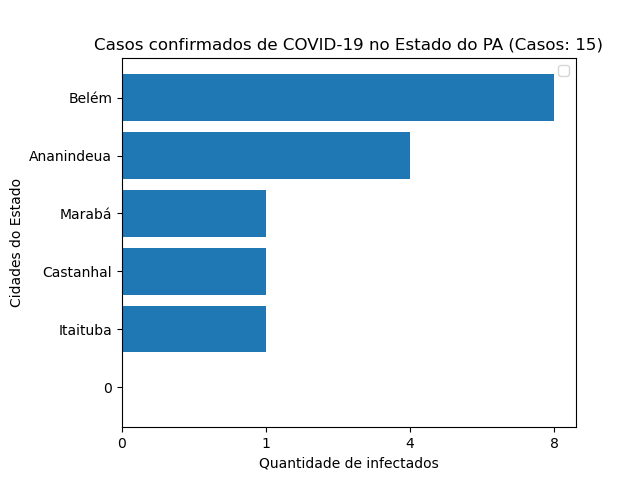
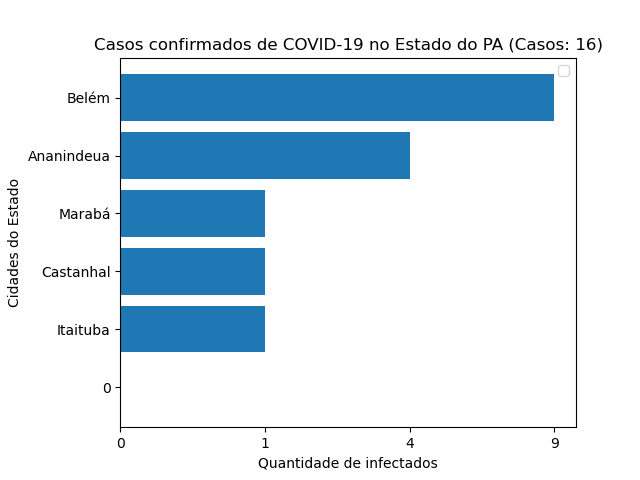
Atualização dos casos

diff --git a/Grafico_de_Barras.py b/Grafico_de_Barras.py
@@ -3,11 +3,11 @@ import matplotlib.pyplot as plt
 
 ##Valores
 cidades = ['0','Itaituba','Castanhal','Marabá','Ananindeua','Belém']
-casos = ['0','1','1','1','4','8']
+casos = ['0','1','1','1','4','9']
 
 
 ##Legendar o grafico
-titulo = "Casos confirmados de COVID-19 no Estado do PA (Casos: 15)"
+titulo = "Casos confirmados de COVID-19 no Estado do PA (Casos: 16)"
 cidadesx = "Quantidade de infectados"
 casosy = "Cidades do Estado"
 
@@ -18,5 +18,5 @@ plt.ylabel(casosy)
 
 plt.barh(cidades,casos)
 plt.legend()
-plt.savefig("Grafico_de_Barras")
+
 plt.show()
